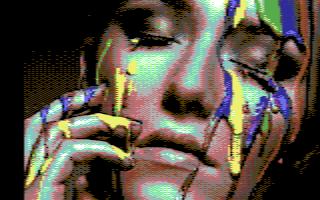
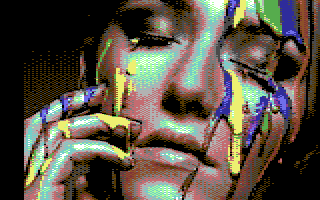
Fixed #53 multicolor PNG output is not pixel-perfect

diff --git a/src/prepost/JimpPreprocessor.ts b/src/prepost/JimpPreprocessor.ts
@@ -26,7 +26,11 @@ export default class JimpPreprocessor {
 
   public static async write(pixelImage: PixelImage, filename: string): Promise<Jimp> {
     const image: Jimp = await this.toJimpImage(pixelImage);
-    this.resize(image, pixelImage.mode);
+    image.resize(
+      pixelImage.mode.width * pixelImage.mode.pixelWidth,
+      pixelImage.mode.height * pixelImage.mode.pixelHeight,
+      Jimp.RESIZE_NEAREST_NEIGHBOR
+    );
     return image.write(filename);
   }
 
@@ -47,10 +51,6 @@ export default class JimpPreprocessor {
         Pixels.poke(image.bitmap, x, y, pixelValue);
       }
     }
-  }
-
-  private static resize(jimpImage: Jimp, graphicMode: GraphicMode): void {
-    jimpImage.resize(graphicMode.width * graphicMode.pixelWidth, graphicMode.height * graphicMode.pixelHeight);
   }
 
   // crop to fill (--scale none)

diff --git a/README.md b/README.md
@@ -250,6 +250,9 @@ Run with `node cli.js [options] <infile>`
 
 ### 0.8.1
 
+- Fixed [[#53](https://github.com/micheldebree/retropixels/issues/53)]
+  multicolor PNG output is not pixel-perfect (Thanks to Rob for reporting)
+
 ### 0.8.0
 
 This is a **backwards incompatible** release.
